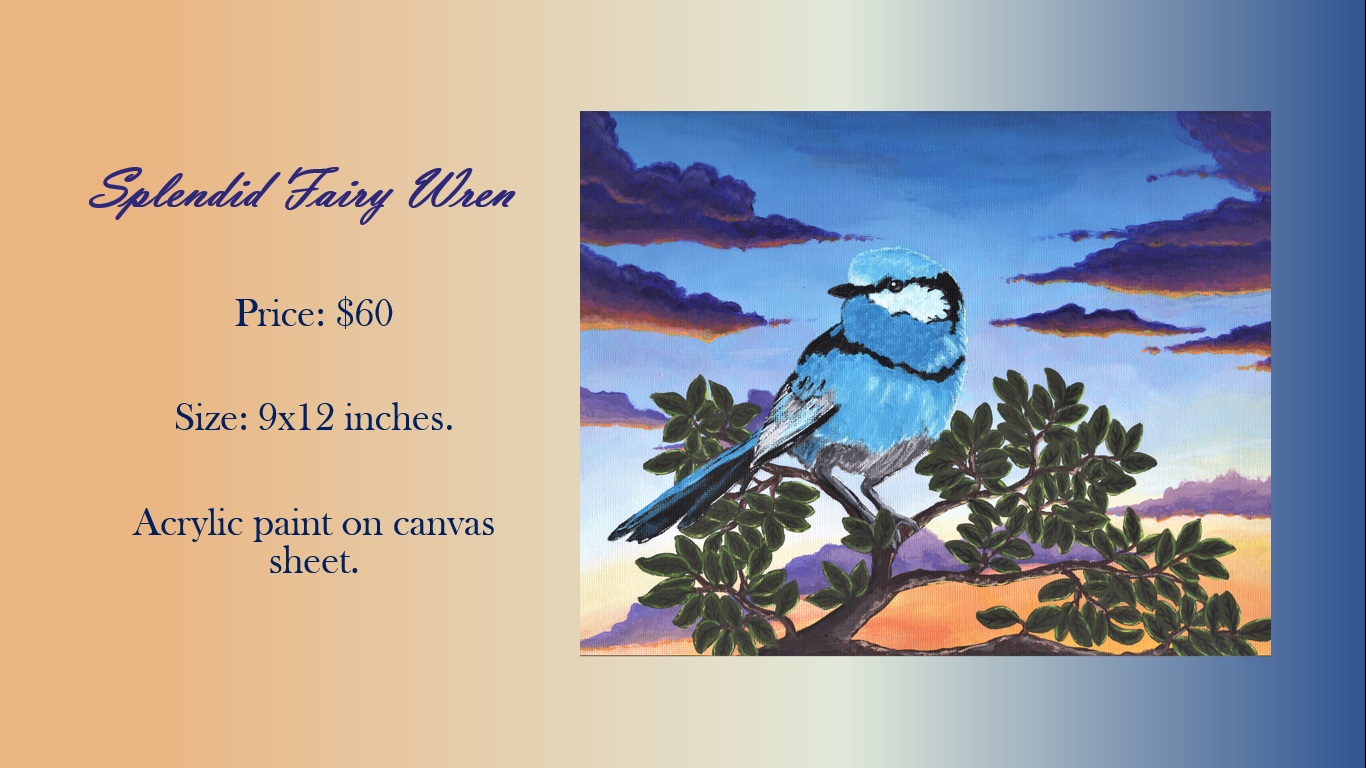
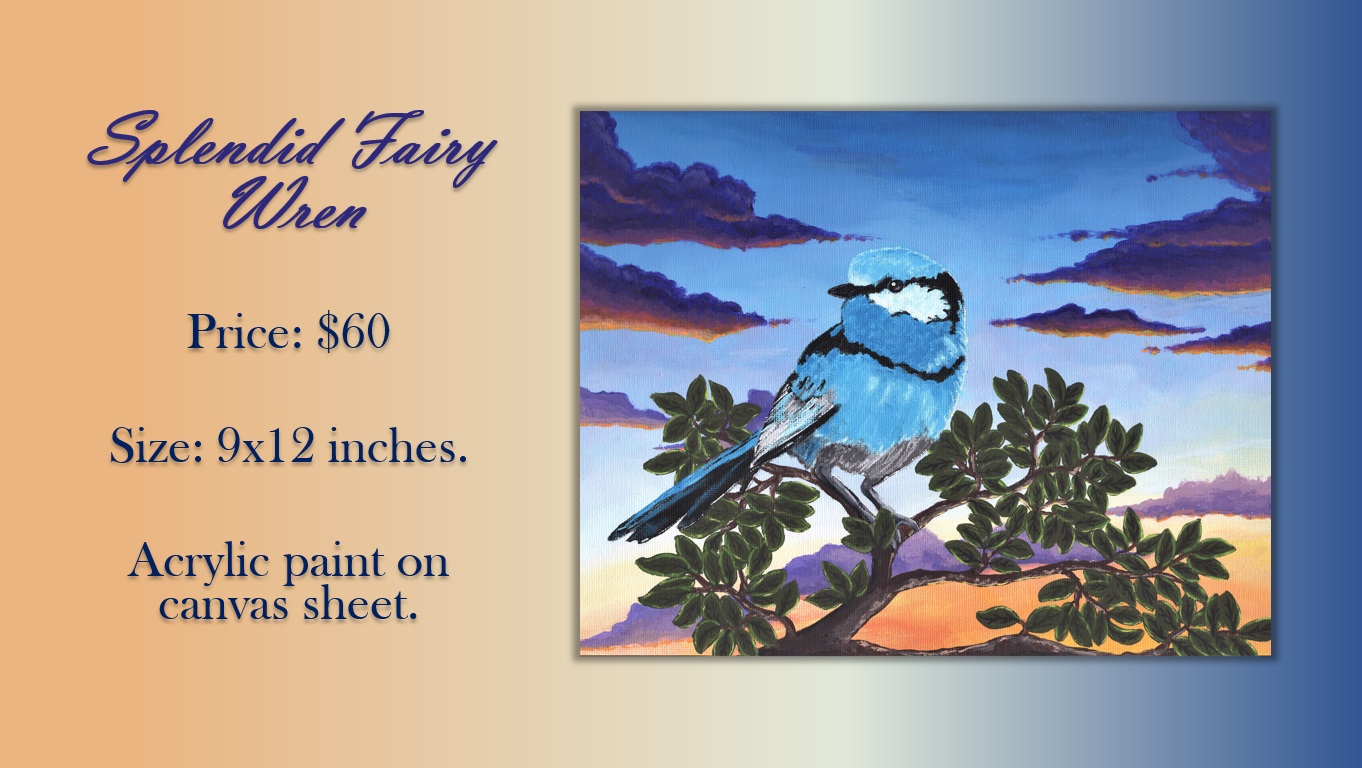
title images added more

diff --git a/src/components/GalleryArray.js b/src/components/GalleryArray.js
@@ -1,15 +1,63 @@
 import lakeb from "../images/galleryPics/lake-side2681835-canvas.webp";
+
 import splnWren from "../images/ProductImage/splendidfairywren.jpg";
 import splnWrenMob from "../images/ProductImage/splendidfairywrenMobile.jpg";
-import sunParMiMob from "../images/ProductImage/sunparakeetmimobile.jpg";
 import sunParMi from "../images/ProductImage/sunparakeetmi.jpg";
+import sunParMiMob from "../images/ProductImage/sunparakeetmimobile.jpg";
+import sunsetTree from "../images/ProductImage/sunsetTree.jpg";
+// import sunsetTreeMob from "../images/ProductImage/sunsetTreeMobile.jpg";
+import sunsetView from "../images/ProductImage/sunsetView.jpg";
+// import sunsetViewMob from "../images/ProductImage/sunsetViewMobile.jpg";
+import dawnBringer from "../images/ProductImage/dawnBringer.jpg";
+import dawnBringerMobile from "../images/ProductImage/dawnBringerMobile.jpg";
+import magnolias from "../images/ProductImage/magnolias.jpg";
+import magnoliasMob from "../images/ProductImage/magnoliasMobile.jpg";
+import mermaidRock from "../images/ProductImage/mermaidRock.jpg";
+import mermaidRockMob from "../images/ProductImage/mermaidRockMobile.jpg";
+import wintersEnd from "../images/ProductImage/wintersEnd.jpg";
+import wintersEndMob from "../images/ProductImage/wintersEndMobile.jpg";
+import wolfMoon from "../images/ProductImage/wolfMoon.jpg";
+import wolfMoonMob from "../images/ProductImage/wolfMoonMobile.jpg";
+import celestialGate from "../images/ProductImage/celestialGate.jpg";
+import celestialGateMob from "../images/ProductImage/celestialGateMobile.jpg";
+import craneOverFuji from "../images/ProductImage/craneOverFuji.jpg";
+import craneOverFujiMob from "../images/ProductImage/craneOverFujiMobile.jpg";
+import fairyGate from "../images/ProductImage/fairyGate.jpg";
+import fairyGateMob from "../images/ProductImage/fairyGateMobile.jpg";
+import hummingbirdMorning from "../images/ProductImage/hummingbirdMorning.jpg";
+import hummingbirdMorningMob from "../images/ProductImage/hummingbirdMorningMobile2.jpg";
+import kingFisherSunset from "../images/ProductImage/kingFisherSunset.jpg";
+import kingFisherSunsetMob from "../images/ProductImage/kingFisherSunsetMobile.jpg";
+import lunaNight from "../images/ProductImage/lunaNight.jpg";
+import lunaNightMob from "../images/ProductImage/lunaNightMobile.jpg";
+import moonlitReverie from "../images/ProductImage/moonlitReverie.jpg";
+import moonlitReverieMob from "../images/ProductImage/moonlitReverieMobile.jpg";
+import nightHill from "../images/ProductImage/nightHill.jpg";
+import nightHillMob from "../images/ProductImage/nightHillMobile.jpg";
+import owlInTree from "../images/ProductImage/owlInTree.jpg";
+import owlInTreeMob from "../images/ProductImage/owlInTreeMobile.jpg";
+
+// import wintersEnd from "../images/ProductImage/wintersEnd.jpg";
+// import wintersEndMob from "../images/ProductImage/wintersEndMobile.jpg";
+
+// import wolfMoon from "../images/ProductImage/wolfMoon.jpg";
+// import wolfMoonMob from "../images/ProductImage/wolfMoonMobile.jpg";
+
+// import celestialGate from "../images/ProductImage/celestialGate.jpg";
+// import celestialGateMob from "../images/ProductImage/celestialGateMobile.jpg";
+
+// import craneOverFuji from "../images/ProductImage/craneOverFuji.jpg";
+// import craneOverFujiMob from "../images/ProductImage/craneOverFujiMobile.jpg";
+
 
 
 
 
 const GalleryArray = [
   {
-    title: "Sunset Ocean View",
+    title: "Sunset View",
+    titleImage: sunsetView,
+    titleImageMobile: null,
     id: 84,
     keyword: "sunset ocean view tree landscape sea water",
     medium: "acrylic canvas",
@@ -125,8 +173,8 @@ const GalleryArray = [
   },
   {
     title: "Moonlit Reverie",
-    titleImage: null,
-    titleImageMobile: null,
+    titleImage: moonlitReverie,
+    titleImageMobile: moonlitReverieMob,
     id: 37,
     keyword: "moonlight moon tree landscape seascape night stars ocean water",
     medium: "canvas acrylic",
@@ -162,13 +210,15 @@ const GalleryArray = [
   },
   {
     title: "Wolf Moon",
+    titleImage: wolfMoon,
+    titleImageMobile: wolfMoonMob,
     id: 55,
     keyword: "wolf moon hill night sky stars space",
     medium: "canvas acrylic",
     size: "4x4 inches.",
     description: "Acrylic paint on canvas.",
     price: 30,
-    buy: "Comming soon.",
+    buy: "Coming soon.",
     etsyListing: null,
     image:
       "https://ctl.s6img.com/society6/img/AnbWDJB1wIogzjOcSx5zvunfM7o/w_700/canvas/~artwork/s6-original-art-uploads/society6/uploads/misc/ae67ea50231e44e1b3aef1eacc3beef3/~~/wolf-moon2516241-canvas.jpg",
@@ -197,6 +247,8 @@ const GalleryArray = [
   },
   {
     title: "Sunset Tree",
+    titleImage: sunsetTree,
+    titleImageMobile: null,
     id: 56,
     keyword: "tree sunset sea ocean water",
     medium: "canvas acrylic",
@@ -755,6 +807,8 @@ const GalleryArray = [
   },
   {
     title: "Celestial Gate",
+    titleImage: celestialGate,
+    titleImageMobile: celestialGateMob,
     id: 6,
     keyword:
       "fantasy landscape sunset night ocean sea water lake celestial gates tori",
@@ -826,6 +880,8 @@ const GalleryArray = [
   },
   {
     title: "Fairy Gate",
+    titleImage: fairyGate,
+    titleImageMobile: fairyGateMob,
     id: 8,
     keyword: "fantasy landscape night sunset tree fairy gate",
     medium: "canvas sheet acrylic",
@@ -864,6 +920,8 @@ const GalleryArray = [
   },
   {
     title: "Dawn Bringer",
+    titleImage: dawnBringer,
+    titleImageMobile: dawnBringerMobile,
     id: 9,
     keyword: "birds night macaw bird sky stars galgaxy gold blue",
     medium: "canvas sheet acrylic",
@@ -940,6 +998,8 @@ const GalleryArray = [
   },
   {
     title: "King Fisher Sunset",
+    titleImage: kingFisherSunset,
+    titleImageMobile: kingFisherSunsetMob,
     id: 11,
     keyword: "birds flowers sunset king blossoms cherry pink tree fisher",
     medium: "canvas wrap acrylic",
@@ -1048,6 +1108,8 @@ const GalleryArray = [
   },
   {
     title: "Magnolias",
+    titleImage: magnolias,
+    titleImageMobile: magnoliasMob,
     id: 14,
     keyword: "flowers magnolia pink abstract",
     medium: "canvas sheet acrylic",
@@ -1151,6 +1213,8 @@ const GalleryArray = [
   },
   {
     title: "Owl in Tree",
+    titleImage: owlInTree,
+    titleImageMobile: owlInTreeMob,
     id: 15,
     keyword: "owl cherry tree flowers blossoms pink moon night sky stars",
     medium: "canvas acrylic",
@@ -1297,6 +1361,8 @@ const GalleryArray = [
   },
   {
     title: "Mermaid Rock",
+    titleImage: mermaidRock,
+    titleImageMobile: mermaidRockMob,
     id: 35,
     keyword: "magical mermaid rock sun water ocean sea seascape fantasy",
     medium: "canvas acrylic",
@@ -1724,6 +1790,8 @@ const GalleryArray = [
   },
   {
     title: "Hummingbird Morning Glories",
+    titleImage: hummingbirdMorning,
+    titleImageMobile: hummingbirdMorningMob,
     id: 26,
     keyword: "humming  bird morning glories flowers",
     medium: "canvas acrylic",
@@ -1757,6 +1825,9 @@ const GalleryArray = [
   },
   {
     title: "Crane over Mt. Fuji",
+    titleImage: craneOverFuji,
+    titleImageMobile: craneOverFujiMob
+    ,
     id: 27,
     keyword: "japanese crane bird cherry blossoms mountain mt fuji flowers",
     medium: "canvas acrylic",
@@ -2017,6 +2088,8 @@ const GalleryArray = [
   },
   {
     title: "Night Hill",
+    titleImage: nightHill,
+    titleImageMobile: nightHillMob,
     id: 39,
     keyword: "night sky ocean sea water landscape",
     medium: "canvas acrylic",
@@ -2564,6 +2637,8 @@ const GalleryArray = [
   },
   {
     title: "Winter's End",
+    titleImage: wintersEnd,
+    titleImageMobile: wintersEndMob,
     id: 54,
     keyword: "magical winter spring grey flowers",
     medium: "canvas acrylic",
@@ -3185,30 +3260,37 @@ const GalleryArray = [
     s6Poster:
       "https://society6.com/product/rose-vine1184342_poster?sku=s6-8877080p66a213v756",
   },
-  // {
-  //   title: "Sea Turtle",
-  //   id: 81,
-  //   keyword: "sea turtle reef ocean water",
-  //   medium: "canvas acrylic",
-  //   size: "",
-  //   description: "Acrylic paint on canvas.",
-  //   price: 50,
-  //   buy: "Not Available",
-  //   etsyListing: null,
-  //   image: seaturtleB,
-  //   s6CanvasPrintImg: null,
-  //   s6CanvasPrint: "",
-  //   s6PrintImg: "",
-  //   s6Print: "",
-  //   s6FramedImg: "",
-  //   s6Framed: "",
-  //   s6TapestryImg: null,
-  //   s6Tapestry: "",
-  //   s6WallHangingImage: null,
-  //   s6WallHanging: "",
-  //   s6PosterImage: "",
-  //   s6Poster: "",
-  // },
+  {
+    title: "Luna Night",
+    titleImage: lunaNight,
+    titleImageMobile: lunaNightMob,
+    id: 81,
+    keyword: "luna moth night sky insssect bugs tree landscape moon stars",
+    medium: "canvas acrylic",
+    size: "16x20 inches.",
+    description: "Acrylic paint on canvas.",
+    price: 100,
+    buy: "Not Available",
+    etsyListing: null,
+    image:
+      "https://ctl.s6img.com/society6/img/LM2b8tRJpMNa-SmwQ08xDSymoSs/w_700/prints/~artwork/s6-original-art-uploads/society6/uploads/misc/79800c49a2c24c6d889e692a40b899a8/~~/lunar-moth5247601-prints.jpg",
+    s6CanvasPrintImg: null,
+    s6CanvasPrint: "",
+    s6PrintImg:
+      "https://ctl.s6img.com/society6/img/LM2b8tRJpMNa-SmwQ08xDSymoSs/w_700/prints/~artwork/s6-original-art-uploads/society6/uploads/misc/79800c49a2c24c6d889e692a40b899a8/~~/lunar-moth5247601-prints.jpg",
+    s6Print:
+      "https://society6.com/product/lunar-moth5247601_print?sku=s6-20514438p4a1v45",
+    s6FramedImg:
+      "https://ctl.s6img.com/society6/img/Txip80cmYdHgMNQ0Tmx19f5b2X8/w_700/framed-prints/10x12/conservation-walnut/~artwork/s6-original-art-uploads/society6/uploads/misc/79800c49a2c24c6d889e692a40b899a8/~~/lunar-moth5247601-framed-prints.jpg",
+    s6Framed:
+      "https://society6.com/product/lunar-moth5247601_framed-print?sku=s6-20514438p21a12v63a13v54",
+    s6TapestryImg: null,
+    s6Tapestry: "",
+    s6WallHangingImage: null,
+    s6WallHanging: "",
+    s6PosterImage: null,
+    s6Poster: "",
+  },
   {
     title: "Sand Pipers",
     id: 83,

diff --git a/legacy/OldGalleryArray.js b/legacy/OldGalleryArray.js
@@ -104,8 +104,8 @@ import tsubaki from "../images/galleryPics/tsubaki.jpg";
 import tsubakiB from "../images/galleryPics/bigger/tsubaki1258216-canvas.webp";
 import winterEnd from "../images/galleryPics/wintersEnd.jpg";
 import winterEndB from "../images/galleryPics/bigger/winters-end3829175-canvas.webp";
-import wolfMoon from "../images/galleryPics/wolfMoon.jpg";
-import wolfMoonB from "../images/galleryPics/bigger/wolf-moon2516241-canvas.webp";
+import Moon from "../images/galleryPics/Moon.jpg";
+import MoonB from "../images/galleryPics/bigger/-moon2516241-canvas.webp";
 import sunsettree from "../images/galleryPics/sunsetBranches.jpg";
 import sunsettreeB from "../images/galleryPics/bigger/sunset-branches2895395-canvas.webp";
 import nightFlight from "../images/galleryPics/night-flight4477694-canvas.webp";
@@ -261,16 +261,16 @@ const OldGalleryArray = [
     s6: "https://society6.com/product/moonlit-reverie_stretched-canvas?sku=s6-17928524p16a6v28",
   },
   {
-    title: "Wolf Moon",
+    title: " Moon",
     id: 55,
-    keyword: "wolf moon hill night sky stars space",
+    keyword: " moon hill night sky stars space",
     medium: "canvas acrylic",
-    baseImage: wolfMoon,
+    baseImage: Moon,
     size: "",
     description: "Acrylic paint on canvas.",
     price: 50,
-    zoomed: wolfMoonB,
-    s6: "https://society6.com/product/wolf-moon2516241_stretched-canvas?sku=s6-13121452p16a6v28",
+    zoomed: MoonB,
+    s6: "https://society6.com/product/-moon2516241_stretched-canvas?sku=s6-13121452p16a6v28",
   },
   {
     title: "Sunset Tree",

diff --git a/src/App.css b/src/App.css
@@ -226,7 +226,7 @@ o #pic {
   display: flex;
   flex-direction: column;
   text-align: center;
-  font-size: 1.4rem;
+  font-size: 2rem;
   margin-bottom: 10%;
 }
 
